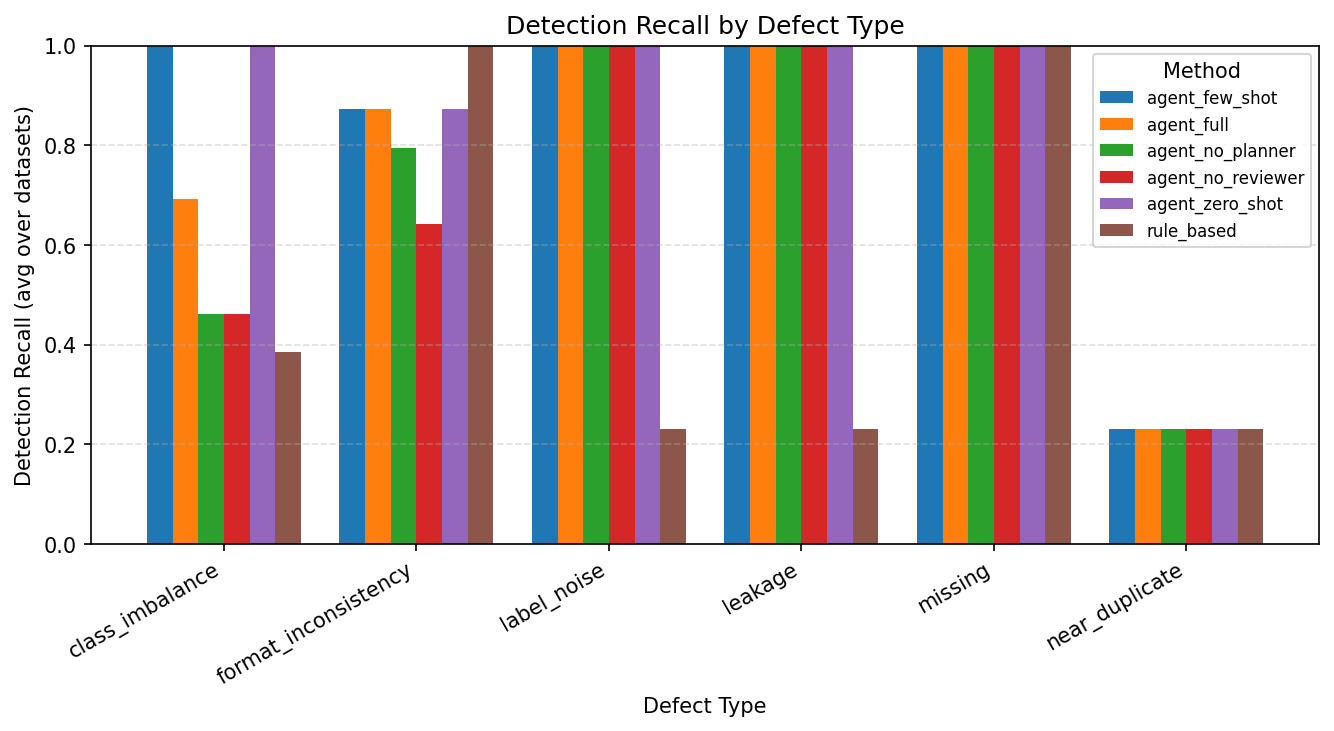
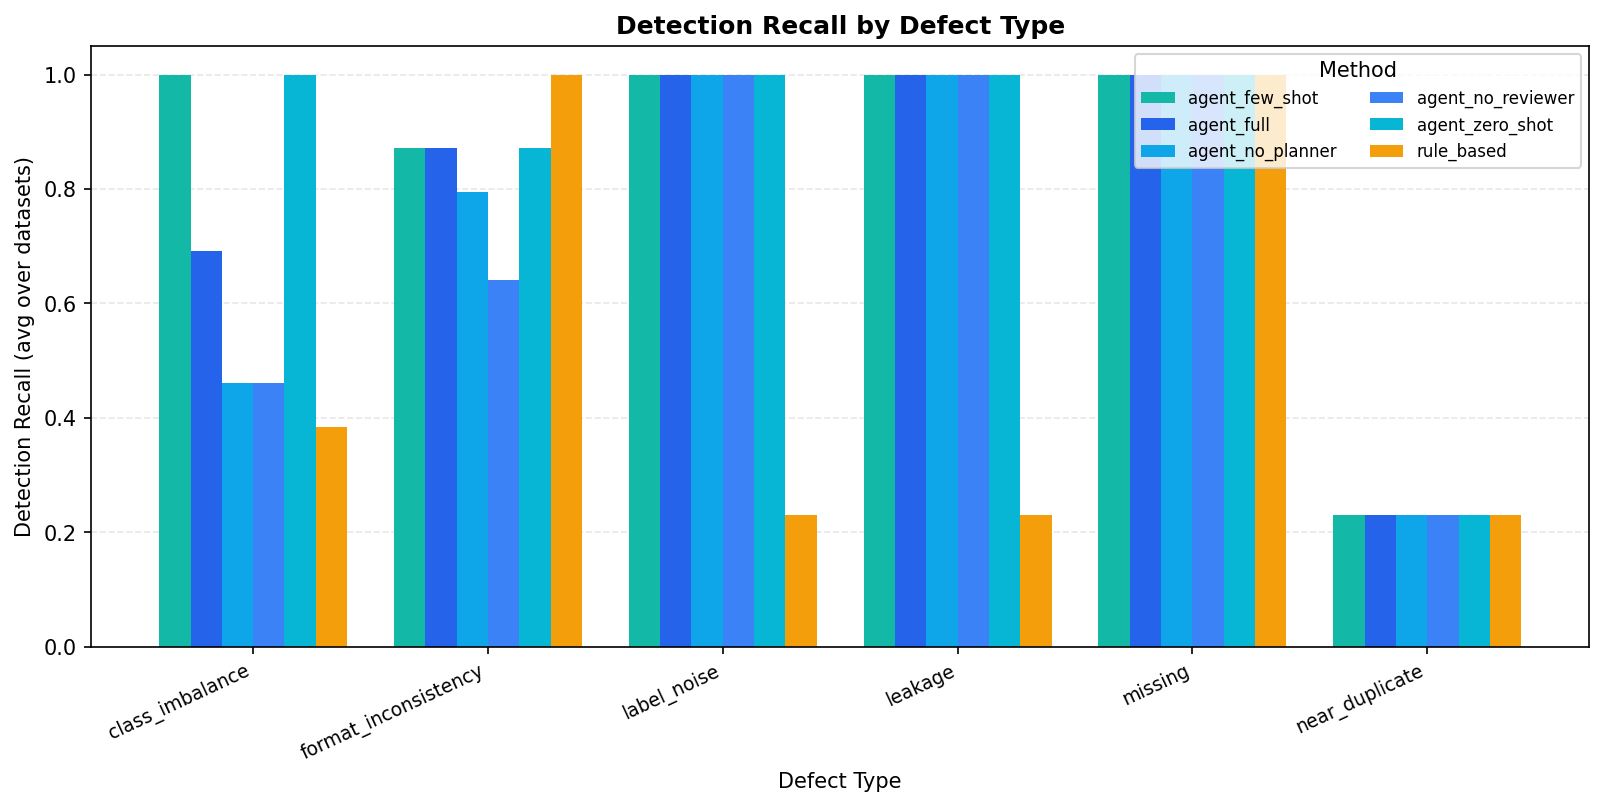
Biutify png

diff --git a/src/viz.py b/src/viz.py
@@ -25,13 +25,33 @@ import pandas as pd  # noqa: E402
 # 参考线方法（上界 / 下界），在 AUC 图里单独标注。
 _REFERENCE_METHODS = ("clean_upper", "no_clean")
 
+# ── 专业配色（Tailwind-inspired palette） ────────────────
+# Agent 变体系列：蓝→青渐变，表示同源方法
+# rule_based：琥珀色，与 Agent 区分
+# no_clean / clean_upper：红/绿，直观表示下界/上界
+_COLORS = {
+    "agent_full":         "#2563EB",   # blue-600
+    "agent_no_reviewer":  "#3B82F6",   # blue-500
+    "agent_no_planner":   "#0EA5E9",   # sky-500
+    "agent_zero_shot":    "#06B6D4",   # cyan-500
+    "agent_few_shot":     "#14B8A6",   # teal-500
+    "rule_based":         "#F59E0B",   # amber-500
+    "no_clean":           "#EF4444",   # red-500
+    "clean_upper":        "#10B981",   # emerald-500
+}
+_DEFAULT_COLOR = "#6B7280"
+
+
+def _method_color(method: str) -> str:
+    return _COLORS.get(method, _DEFAULT_COLOR)
+
 
 def _save(fig: "plt.Figure", out_path: str | Path) -> Path:
     """统一落盘逻辑：建目录、写 PNG、关闭 figure，返回路径。"""
     out_path = Path(out_path)
     out_path.parent.mkdir(parents=True, exist_ok=True)
     fig.tight_layout()
-    fig.savefig(out_path, dpi=150, bbox_inches="tight")
+    fig.savefig(out_path, dpi=150, bbox_inches="tight", facecolor="white")
     plt.close(fig)
     return out_path
 
@@ -45,27 +65,10 @@ def _filter_model(df: pd.DataFrame, model: str | None = "xgb") -> pd.DataFrame:
 
 def plot_auc_comparison(results_df: pd.DataFrame, out_path: str | Path,
                         model: str | None = "xgb") -> Path:
-    """各方法在各数据集上的 AUC 分组柱状图。
-
-    x 轴为数据集，每个数据集内并排画出全部方法的 AUC；clean_upper / no_clean
-    作为上下界一并展示。NaN（如 agent 调用失败）的条目自动跳过。
-
-    Parameters
-    ----------
-    results_df:
-        含列 ``dataset_id``、``method``、``auc`` 的汇总表。若有 ``model`` 列则自动过滤。
-    out_path:
-        输出 PNG 路径。
-    model:
-        若 DataFrame 含 ``model`` 列，只绘制该模型的结果。设为 ``None`` 显示全部模型。
-    Returns
-    -------
-    pathlib.Path
-    """
+    """各方法在各数据集上的 AUC 分组柱状图。"""
     df = _filter_model(results_df, model).dropna(subset=["auc"]).copy()
     datasets = sorted(df["dataset_id"].unique())
 
-    # 方法排序：上下界放两端，其余按字母序，便于视觉对比。
     methods = list(df["method"].unique())
     middle = sorted(m for m in methods if m not in _REFERENCE_METHODS)
     ordered: list[str] = []
@@ -75,7 +78,7 @@ def plot_auc_comparison(results_df: pd.DataFrame, out_path: str | Path,
     if "clean_upper" in methods:
         ordered.append("clean_upper")
 
-    fig, ax = plt.subplots(figsize=(max(8, 2.2 * len(datasets)), 5))
+    fig, ax = plt.subplots(figsize=(max(10, 2.5 * len(datasets)), 5.5))
     n_methods = max(len(ordered), 1)
     total_width = 0.8
     bar_width = total_width / n_methods
@@ -85,34 +88,31 @@ def plot_auc_comparison(results_df: pd.DataFrame, out_path: str | Path,
         sub = df[df["method"] == method].set_index("dataset_id")["auc"]
         heights = [sub.get(d, np.nan) for d in datasets]
         offset = (i - (n_methods - 1) / 2) * bar_width
-        ax.bar(x + offset, heights, bar_width, label=method)
+        ax.bar(x + offset, heights, bar_width, label=method, color=_method_color(method))
 
     ax.set_xticks(x)
-    ax.set_xticklabels(datasets, rotation=0)
-    ax.set_xlabel("Dataset")
-    ax.set_ylabel("AUC-ROC (frozen clean test set)")
-    ax.set_title("AUC Comparison Across Methods")
-    ax.set_ylim(0.0, 1.0)
-    ax.legend(title="Method", loc="lower right", fontsize=8)
-    ax.grid(axis="y", linestyle="--", alpha=0.4)
+    ax.set_xticklabels(datasets, rotation=15, ha="right", fontsize=9)
+    ax.set_xlabel("Dataset", fontsize=10)
+    ax.set_ylabel("AUC-ROC (frozen clean test set)", fontsize=10)
+    ax.set_title("AUC Comparison Across Methods", fontsize=12, fontweight="bold")
+    ax.set_ylim(0.0, 1.05)
+    ax.legend(title="Method", loc="lower right", fontsize=8, ncol=2)
+    ax.grid(axis="y", linestyle="--", alpha=0.3)
+    ax.set_axisbelow(True)
 
     return _save(fig, out_path)
 
 
 def plot_recovery_rate(results_df: pd.DataFrame, out_path: str | Path,
                        model: str | None = "xgb") -> Path:
-    """rule_based 与各 agent 变体的 Recovery Rate 分组柱状图。
-
-    Recovery Rate 把方法 AUC 在 [no_clean, clean_upper] 区间内归一化，1.0 表示
-    完全恢复到干净数据水平。上下界方法本身（recovery 恒为 0/1）不参与绘制。
-    """
+    """rule_based 与各 agent 变体的 Recovery Rate 分组柱状图。"""
     df = _filter_model(results_df, model).dropna(subset=["recovery_rate"]).copy()
     df = df[~df["method"].isin(_REFERENCE_METHODS)]
 
     datasets = sorted(df["dataset_id"].unique())
     methods = sorted(df["method"].unique())
 
-    fig, ax = plt.subplots(figsize=(max(8, 2.2 * len(datasets)), 5))
+    fig, ax = plt.subplots(figsize=(max(10, 2.5 * len(datasets)), 5.5))
     n_methods = max(len(methods), 1)
     total_width = 0.8
     bar_width = total_width / n_methods
@@ -122,36 +122,34 @@ def plot_recovery_rate(results_df: pd.DataFrame, out_path: str | Path,
         sub = df[df["method"] == method].set_index("dataset_id")["recovery_rate"]
         heights = [sub.get(d, np.nan) for d in datasets]
         offset = (i - (n_methods - 1) / 2) * bar_width
-        ax.bar(x + offset, heights, bar_width, label=method)
+        ax.bar(x + offset, heights, bar_width, label=method, color=_method_color(method))
 
-    ax.axhline(1.0, color="green", linestyle="--", alpha=0.6, label="full recovery")
-    ax.axhline(0.0, color="red", linestyle="--", alpha=0.6, label="no recovery")
+    ax.axhline(1.0, color="#10B981", linestyle="--", alpha=0.7, linewidth=1.5, label="full recovery (RR=1)")
+    ax.axhline(0.0, color="#EF4444", linestyle="--", alpha=0.7, linewidth=1.5, label="no recovery (RR=0)")
 
     ax.set_xticks(x)
-    ax.set_xticklabels(datasets, rotation=0)
-    ax.set_xlabel("Dataset")
-    ax.set_ylabel("Recovery Rate")
-    ax.set_title("Recovery Rate by Cleaning Method")
-    ax.legend(title="Method", loc="best", fontsize=8)
-    ax.grid(axis="y", linestyle="--", alpha=0.4)
+    ax.set_xticklabels(datasets, rotation=15, ha="right", fontsize=9)
+    ax.set_xlabel("Dataset", fontsize=10)
+    ax.set_ylabel("Recovery Rate", fontsize=10)
+    ax.set_title("Recovery Rate by Cleaning Method", fontsize=12, fontweight="bold")
+    ax.legend(title="Method", loc="best", fontsize=8, ncol=2)
+    ax.grid(axis="y", linestyle="--", alpha=0.3)
+    ax.set_axisbelow(True)
 
     return _save(fig, out_path)
 
 
 def plot_model_comparison(results_df: pd.DataFrame, out_path: str | Path) -> Path:
-    """各模型在各（数据集, 方法）上的 AUC 散点对比图。
-
-    若数据不包含多模型，直接返回占位图。
-    """
+    """各模型在各（数据集, 方法）上的 AUC 散点对比图。"""
     df = results_df.dropna(subset=["auc"]).copy()
     if "model" not in df.columns or df["model"].nunique() < 2:
         fig, ax = plt.subplots(figsize=(8, 5))
-        ax.text(0.5, 0.5, "Single model only – no comparison needed", ha="center", va="center")
+        ax.text(0.5, 0.5, "Single model only – no comparison needed",
+                ha="center", va="center", fontsize=12, color=_DEFAULT_COLOR)
         ax.set_axis_off()
         return _save(fig, out_path)
 
     models = sorted(df["model"].unique())
-    # 对每个 (dataset, method) 按模型展开 AUC
     pivot = df.pivot_table(index=["dataset_id", "method"], columns="model", values="auc")
     pivot = pivot.dropna()
 
@@ -161,52 +159,41 @@ def plot_model_comparison(results_df: pd.DataFrame, out_path: str | Path) -> Pat
         axes = [axes]
 
     ref_model = models[0]
+    model_cmap = {"xgb": "#2563EB", "rf": "#F59E0B", "lr": "#10B981"}
     for ax, cmp_model in zip(axes, models[1:]):
-        ax.scatter(pivot[ref_model], pivot[cmp_model], alpha=0.6)
+        colors = [model_cmap.get(m, _DEFAULT_COLOR) for m in pivot.index.get_level_values("method")]
+        ax.scatter(pivot[ref_model], pivot[cmp_model], c=colors, alpha=0.7, s=60, edgecolors="white", linewidth=0.5)
         lims = [min(pivot[[ref_model, cmp_model]].min().min(), 0.4),
                 max(pivot[[ref_model, cmp_model]].max().max(), 1.0)]
-        ax.plot(lims, lims, "r--", alpha=0.4, label="y=x")
-        ax.set_xlabel(f"AUC ({ref_model})")
-        ax.set_ylabel(f"AUC ({cmp_model})")
-        ax.set_title(f"{ref_model} vs {cmp_model}")
+        ax.plot(lims, lims, "--", color="#EF4444", alpha=0.4, label="y=x")
+        ax.set_xlabel(f"AUC ({ref_model})", fontsize=10)
+        ax.set_ylabel(f"AUC ({cmp_model})", fontsize=10)
+        ax.set_title(f"{ref_model} vs {cmp_model}", fontsize=11, fontweight="bold")
         ax.grid(alpha=0.3)
-        ax.legend()
+        ax.legend(fontsize=9)
 
-    fig.suptitle("Model Robustness: AUC Comparison Across Classifiers")
+    fig.suptitle("Model Robustness: AUC Comparison Across Classifiers",
+                 fontsize=12, fontweight="bold")
     return _save(fig, out_path)
 
 
 def plot_detection_by_type(detection_df: pd.DataFrame, out_path: str | Path) -> Path:
-    """分缺陷类型的检测召回率对比（rule_based vs agent 变体）。
-
-    x 轴为缺陷类型，每个类型内并排画出各检测方法在所有数据集上的平均召回率。
-
-    Parameters
-    ----------
-    detection_df:
-        含列 ``dataset_id``、``method``、``defect_type``、``recall`` 的明细表。
-    out_path:
-        输出 PNG 路径。
-    """
+    """分缺陷类型的检测召回率对比（rule_based vs agent 变体）。"""
     df = detection_df.dropna(subset=["recall"]).copy()
 
     if df.empty:
-        # 没有任何检测结果（例如全程 --skip-agent 且基线未报告）时给一张占位图，
-        # 避免编排流程因空数据崩溃。
-        fig, ax = plt.subplots(figsize=(8, 5))
-        ax.text(0.5, 0.5, "No detection results available", ha="center", va="center")
+        fig, ax = plt.subplots(figsize=(9, 5))
+        ax.text(0.5, 0.5, "No detection results available",
+                ha="center", va="center", fontsize=12, color=_DEFAULT_COLOR)
         ax.set_axis_off()
         ax.set_title("Detection Recall by Defect Type")
         return _save(fig, out_path)
 
-    # 跨数据集对同一 (method, defect_type) 取平均召回率。
-    agg = (
-        df.groupby(["defect_type", "method"])["recall"].mean().reset_index()
-    )
+    agg = df.groupby(["defect_type", "method"])["recall"].mean().reset_index()
     defect_types = sorted(agg["defect_type"].unique())
     methods = sorted(agg["method"].unique())
 
-    fig, ax = plt.subplots(figsize=(max(9, 1.5 * len(defect_types)), 5))
+    fig, ax = plt.subplots(figsize=(max(10, 1.8 * len(defect_types)), 5.5))
     n_methods = max(len(methods), 1)
     total_width = 0.8
     bar_width = total_width / n_methods
@@ -216,15 +203,16 @@ def plot_detection_by_type(detection_df: pd.DataFrame, out_path: str | Path) -> 
     for i, method in enumerate(methods):
         heights = [pivot.loc[t, method] if t in pivot.index else np.nan for t in defect_types]
         offset = (i - (n_methods - 1) / 2) * bar_width
-        ax.bar(x + offset, heights, bar_width, label=method)
+        ax.bar(x + offset, heights, bar_width, label=method, color=_method_color(method))
 
     ax.set_xticks(x)
-    ax.set_xticklabels(defect_types, rotation=30, ha="right")
-    ax.set_xlabel("Defect Type")
-    ax.set_ylabel("Detection Recall (avg over datasets)")
-    ax.set_title("Detection Recall by Defect Type")
-    ax.set_ylim(0.0, 1.0)
-    ax.legend(title="Method", loc="best", fontsize=8)
-    ax.grid(axis="y", linestyle="--", alpha=0.4)
+    ax.set_xticklabels(defect_types, rotation=25, ha="right", fontsize=9)
+    ax.set_xlabel("Defect Type", fontsize=10)
+    ax.set_ylabel("Detection Recall (avg over datasets)", fontsize=10)
+    ax.set_title("Detection Recall by Defect Type", fontsize=12, fontweight="bold")
+    ax.set_ylim(0.0, 1.05)
+    ax.legend(title="Method", loc="best", fontsize=8, ncol=2)
+    ax.grid(axis="y", linestyle="--", alpha=0.3)
+    ax.set_axisbelow(True)
 
     return _save(fig, out_path)
